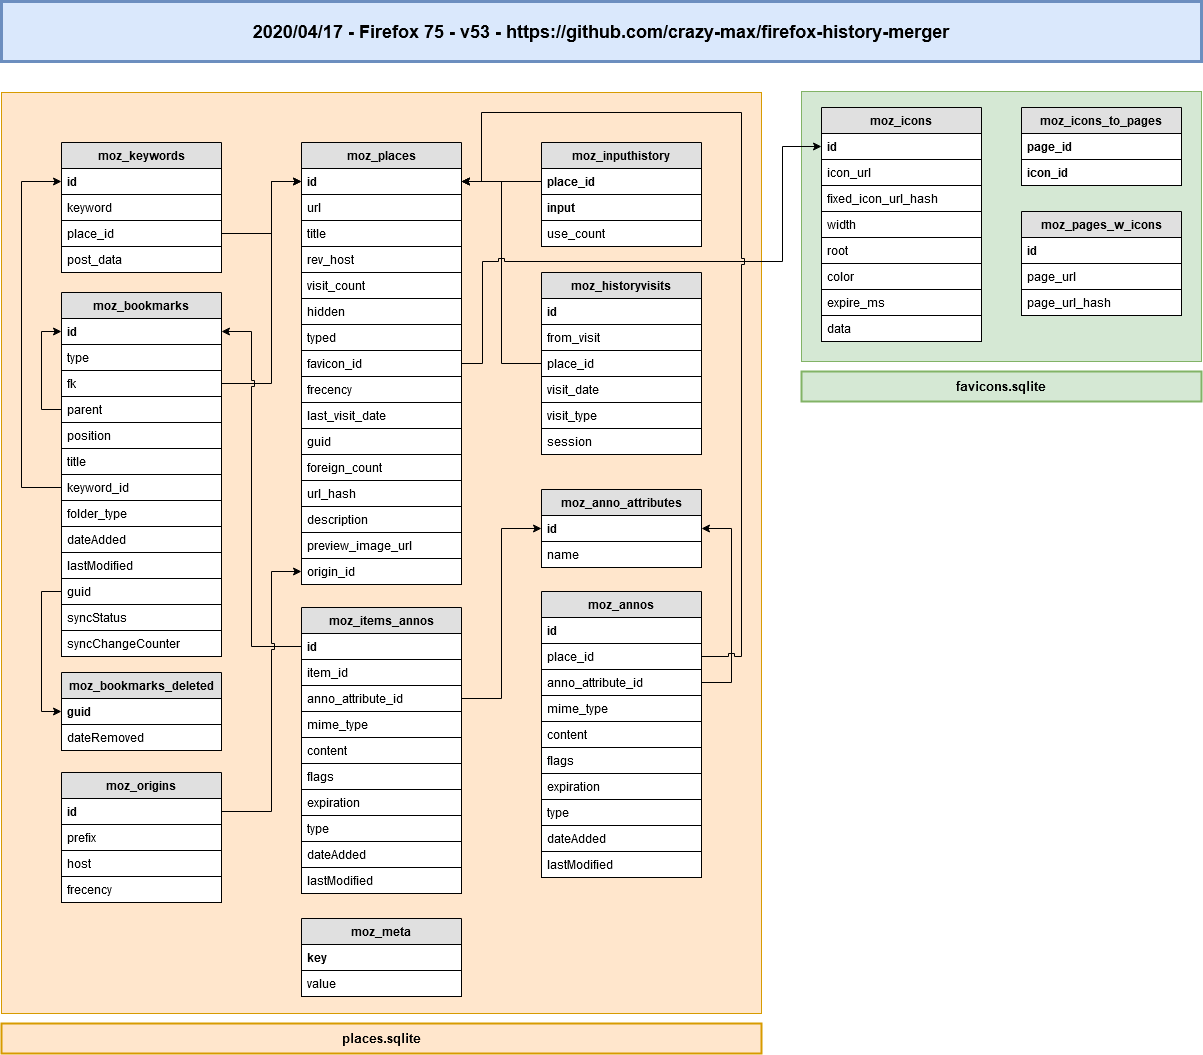
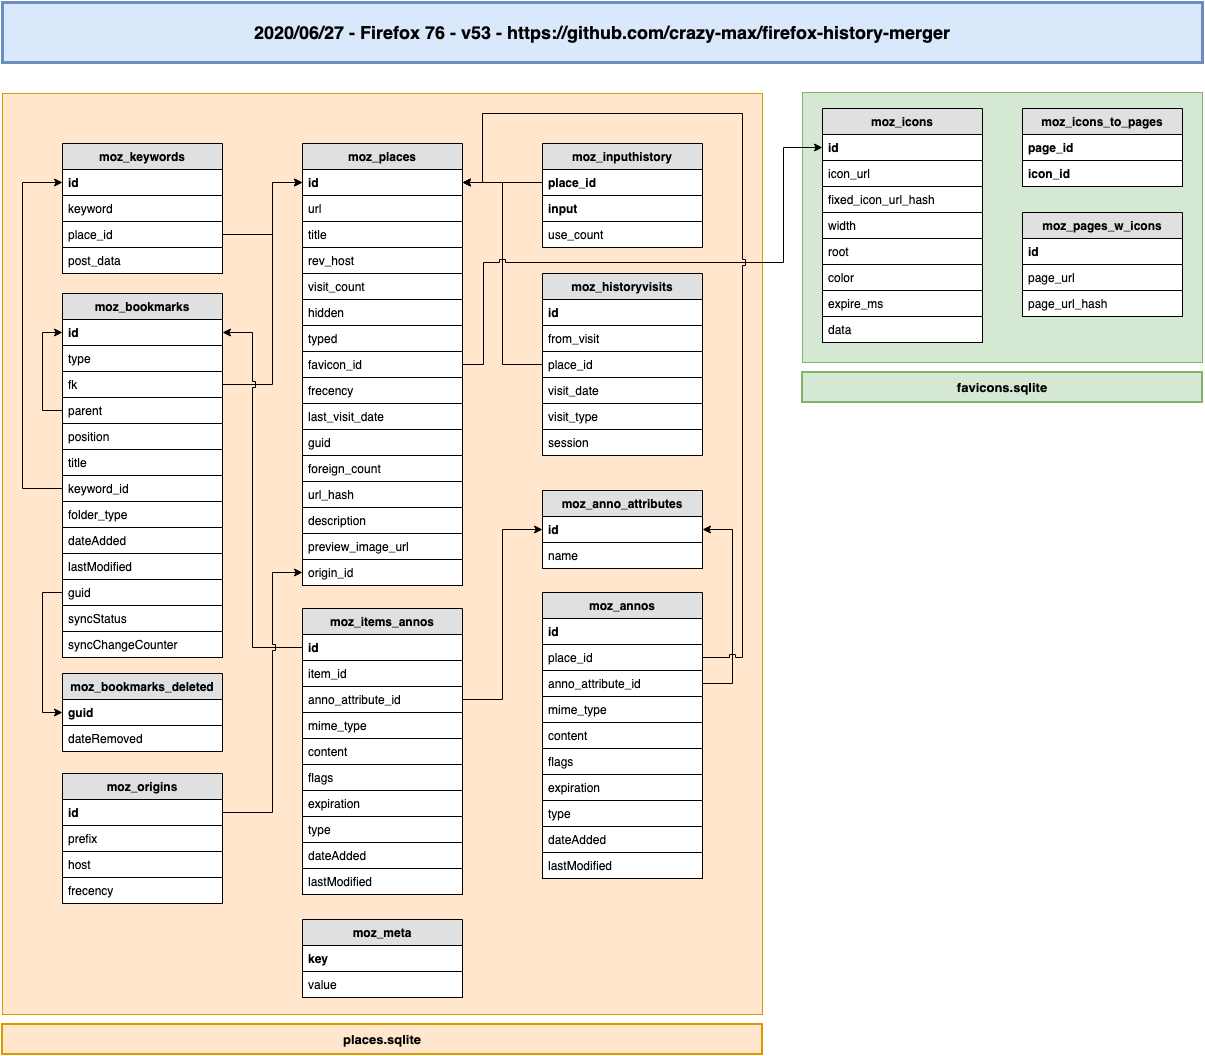
Same schema (v53) for Firefox 76

diff --git a/internal/db/places/client.go b/internal/db/places/client.go
@@ -183,5 +183,5 @@ func (c *Client) firefoxVersion() int {
 	if c.DbVersion < 53 {
 		return 62
 	}
-	return 75
+	return 76
 }

diff --git a/README.md b/README.md
@@ -43,7 +43,7 @@ ___
 
 ## Requirements
 
-Schema version that can be used is **v39 (Firefox 57)** to **v53 (Firefox 75)**. Check if your `places.sqlite` is compatible with `info` command.
+Schema version that can be used is **v39 (Firefox 57)** to **v53 (Firefox 76)**. Check if your `places.sqlite` is compatible with `info` command.
 
 If your database is not compatible, you can copy your `places.sqlite` in a compatible Firefox [profile folder](https://support.mozilla.org/en-US/kb/profiles-where-firefox-stores-user-data), then launch/close Firefox and your `places.sqlite` should now be compatible. 
 

diff --git a/CHANGELOG.md b/CHANGELOG.md
@@ -1,5 +1,10 @@
 # Changelog
 
+## 2.9.0 (2020/06/17)
+
+* Same schema (v53) for Firefox 76
+* Update deps
+
 ## 2.8.0 (2020/04/17)
 
 * Same schema (v53) for Firefox 75
@@ -11,7 +16,7 @@
 ## 2.6.0 (2020/03/05)
 
 * Same schema (v53) for Firefox 73
-* Bump deps
+* Update deps
 
 ## 2.5.0 (2020/01/29)
 
